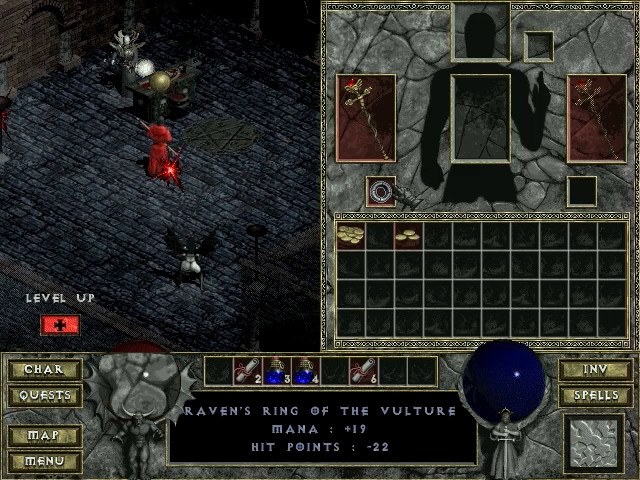
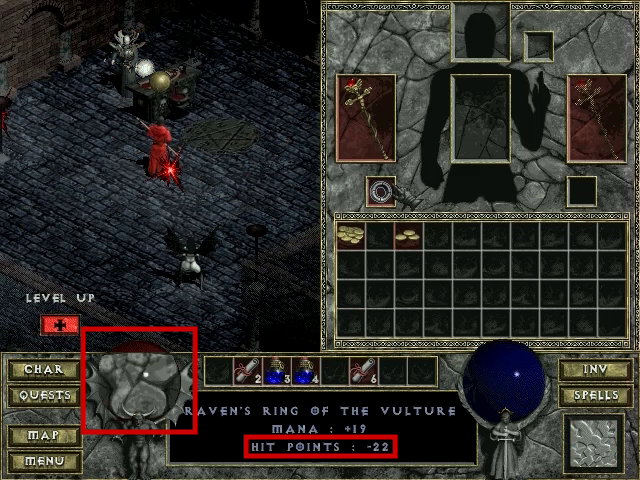
Add red callout boxes to some images

Changed region(s): [[0.125, 0.6562, 0.3125, 0.9062], [0.375, 0.9062, 0.625, 0.9688]]

diff --git a/readme.md b/readme.md
@@ -143,7 +143,7 @@ Save files are encrypted, increasing the difficulty of modifying the dungeon see
 The contents of inventory change unexpectedly throughout the run, indicating splices from multiple playthroughs were used. The Ring of the Vulture is acquired at 1:08 on dlvl 4:
 
 ![](Attachments/dlvl4Ring.png)
-##### _Figure 6 - Ring of the Vulture acquired on dlvl 4_
+##### _Figure 6 - Ring of the Vulture acquired from upper cenotaph on dlvl 4_
 
 However, at 1:30 when the inventory is opened, the ring is not present:
 
